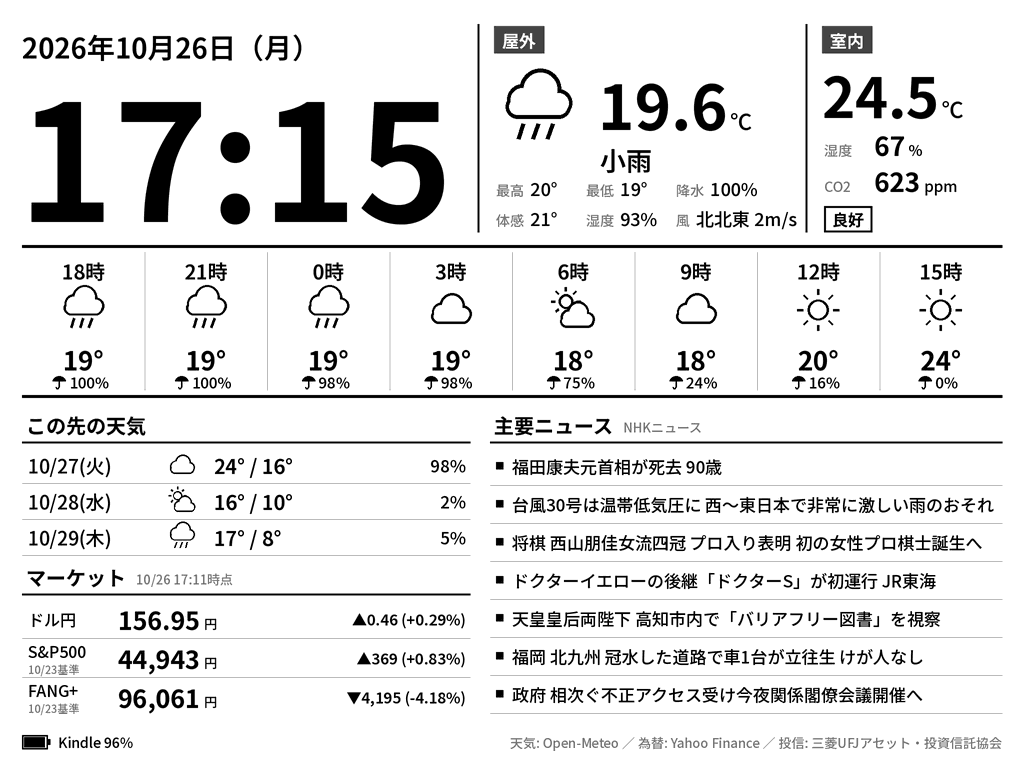
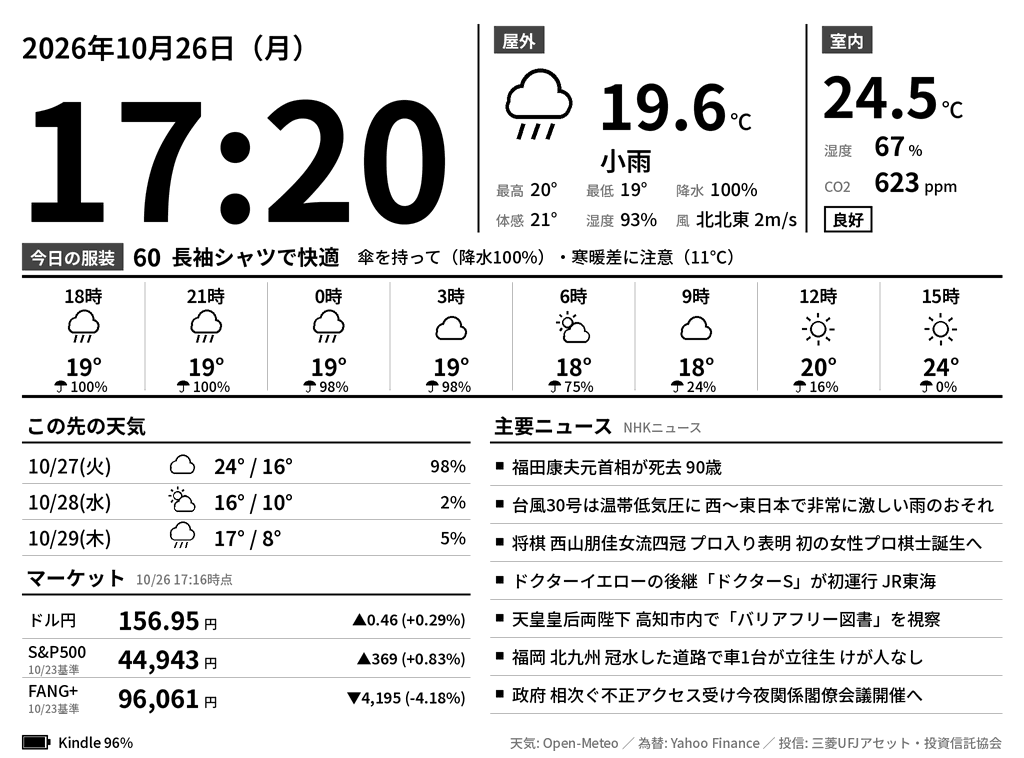
kindle_dashboard: add clothing advice (服装指数) bar
Computes a clothing index from Open-Meteo hourly apparent temperature for
the rest of today (tomorrow after 18:00) and adds umbrella, temperature
swing and strong wind tips.

Claude-Session: https://claude.ai/code/session_01U5J8BxMP2MPkhSzA51AjtL

Changed region(s): [[0.0, 0.1214, 0.9688, 0.5158]]

diff --git a/kindle_dashboard/server/dashboard/render.py b/kindle_dashboard/server/dashboard/render.py
@@ -121,10 +121,12 @@ class Canvas:
     def battery(self, x, y, w, h, level):
         icons.battery(self.d, x * self.s, y * self.s, w * self.s, h * self.s, level)
 
-    def label_box(self, x, y, txt):
+    def label_box(self, x, y, txt) -> float:
+        """白抜き文字の見出し。幅を返す。"""
         w = self.text_width(txt, 17, "Bold") + 16
         self.rect(x, y, x + w, y + 27, fill=DARK)
         self.text(x + w / 2, y + 14, txt, 17, "Bold", fill=WHITE, anchor="mm")
+        return w
 
     def finish(self) -> Image.Image:
         return self.img.resize((self.w, self.h), Image.LANCZOS)
@@ -202,8 +204,24 @@ def draw_indoor(c: Canvas, ind: Indoor | None):
         c.text(x + 2 + bw / 2, 219, level, 16, "Bold", anchor="mm")
 
 
+def draw_clothing(c: Canvas, w: Weather | None):
+    """時計・天気の下の帯: [今日の服装] 60 長袖シャツで快適　傘を持って（降水80%）・…"""
+    cl = w.clothing if w else None
+    if cl is None:
+        return
+    y, x1 = 256, c.w - M
+    x = M + c.label_box(M, y - 13, f"{cl.day_label}の服装") + 10
+    x += c.text(x, y, str(cl.index), 24, "Bold", anchor="lm") + 10
+    x += c.text(x, y, cl.phrase, 21, "Bold", anchor="lm") + 18
+    tips = list(cl.tips)
+    while tips and c.text_width("・".join(tips), 17, "Medium") > x1 - x:
+        tips.pop()  # 入りきらないひとことは後ろから省く
+    if tips:
+        c.text(x, y, "・".join(tips), 17, "Medium", anchor="lm")
+
+
 def draw_hourly(c: Canvas, w: Weather | None):
-    top, bottom = 246, 396
+    top, bottom = 276, 396
     c.line(M, top, c.w - M, top, 3)
     c.line(M, bottom, c.w - M, bottom, 3)
     slots = w.hourly if w else []
@@ -216,14 +234,14 @@ def draw_hourly(c: Canvas, w: Weather | None):
         if i >= len(slots):
             continue
         s, cx = slots[i], x0 + cw / 2
-        c.text(cx, 256, f"{s.time.hour}時", 20, "SemiBold", anchor="ma")
-        c.weather_icon(s.code, cx, 310, 52, s.is_day)
-        c.text(cx, 340, _deg(s.temperature), 26, "Bold", anchor="ma")
+        c.text(cx, 282, f"{s.time.hour}時", 18, "SemiBold", anchor="ma")
+        c.weather_icon(s.code, cx, 329, 40, s.is_day)
+        c.text(cx, 349, _deg(s.temperature), 23, "Bold", anchor="ma")
         if s.precip_prob is not None:
             label = f"{s.precip_prob}%"
-            tw = c.text_width(label, 15, "Medium")
-            c.umbrella(cx - tw / 2 - 4, 382, 13)
-            c.text(cx - tw / 2 + 6, 382, label, 15, "Medium", anchor="lm")
+            tw = c.text_width(label, 14, "Medium")
+            c.umbrella(cx - tw / 2 - 4, 386, 12)
+            c.text(cx - tw / 2 + 6, 386, label, 14, "Medium", anchor="lm")
 
 
 def draw_heading(c: Canvas, x0, x1, y, title, sub=""):
@@ -307,6 +325,7 @@ def render(data: DashboardData, fonts: Fonts, width: int = 1024, height: int = 7
     draw_outdoor(c, data.weather)
     c.line(806, 24, 806, 232, 2)
     draw_indoor(c, data.indoor)
+    draw_clothing(c, data.weather)
     draw_hourly(c, data.weather)
     draw_daily(c, data.weather)
     draw_market(c, data.quotes)

diff --git a/kindle_dashboard/server/dashboard/clothing.py b/kindle_dashboard/server/dashboard/clothing.py
@@ -1,0 +1,81 @@
+"""服装指数（tenki.jp の服装指数を参考にした独自の目安）。
+
+その日の外出時間帯（6〜21時。夕方以降は翌日）の体感温度から 10〜90 の指数と
+おすすめの服装を決め、傘・寒暖差・強風のひとことを添える。
+"""
+
+from __future__ import annotations
+
+from dataclasses import dataclass, field
+from datetime import datetime, timedelta
+
+DAY_START, DAY_END = 6, 21  # 外出する時間帯
+SWITCH_TO_TOMORROW = 18  # この時刻以降は明日の服装を出す
+
+# (この体感温度以上なら, 指数, 服装)
+LEVELS = [
+    (29, 90, "ノースリーブでもOK"),
+    (25, 80, "半袖で快適"),
+    (21, 70, "半袖＋薄い羽織りを"),
+    (17, 60, "長袖シャツで快適"),
+    (13, 50, "薄手のセーターを"),
+    (9, 40, "ジャケットが必要"),
+    (5, 30, "コートが必要"),
+    (0, 20, "厚手のコートを"),
+]
+COLDEST = (10, "ダウン・手袋で防寒")
+
+UMBRELLA_PROB = 50  # % 以上で傘
+TEMP_SWING = 10  # ℃ 以上で寒暖差に注意
+STRONG_WIND = 8  # m/s 以上で強風
+
+
+@dataclass
+class HourPoint:
+    time: datetime
+    temperature: float
+    apparent: float
+    precip_prob: int | None
+    wind_speed: float | None
+
+
+@dataclass
+class Clothing:
+    index: int
+    phrase: str
+    day_label: str  # "今日" / "明日"
+    tips: list[str] = field(default_factory=list)
+
+
+def level_for(feels_like: float) -> tuple[int, str]:
+    for threshold, index, phrase in LEVELS:
+        if feels_like >= threshold:
+            return index, phrase
+    return COLDEST
+
+
+def clothing_advice(points: list[HourPoint], now: datetime) -> Clothing | None:
+    if now.hour >= SWITCH_TO_TOMORROW:
+        day, label, start = (now + timedelta(days=1)).date(), "明日", DAY_START
+    else:
+        day, label, start = now.date(), "今日", max(DAY_START, now.hour)
+    window = [p for p in points if p.time.date() == day and start <= p.time.hour <= DAY_END]
+    if not window:
+        return None
+
+    apparent = [p.apparent for p in window]
+    # 最高と最低の体感温度の間（やや暖かい側）を、その日の体感とみなす
+    feels_like = 0.6 * max(apparent) + 0.4 * min(apparent)
+    index, phrase = level_for(feels_like)
+
+    tips = []
+    pops = [p.precip_prob for p in window if p.precip_prob is not None]
+    if pops and max(pops) >= UMBRELLA_PROB:
+        tips.append(f"傘を持って（降水{max(pops)}%）")
+    temps = [p.temperature for p in window]
+    if max(temps) - min(temps) >= TEMP_SWING:
+        tips.append(f"寒暖差に注意（{round(max(temps) - min(temps))}℃）")
+    winds = [p.wind_speed for p in window if p.wind_speed is not None]
+    if winds and max(winds) >= STRONG_WIND:
+        tips.append(f"風が強い（{round(max(winds))}m/s）")
+    return Clothing(index, phrase, label, tips)

diff --git a/kindle_dashboard/server/tests/test_clothing.py b/kindle_dashboard/server/tests/test_clothing.py
@@ -1,0 +1,57 @@
+from datetime import datetime, timedelta
+from zoneinfo import ZoneInfo
+
+import pytest
+
+from dashboard.clothing import HourPoint, clothing_advice, level_for
+
+TZ = ZoneInfo("Asia/Tokyo")
+
+
+def day_points(start: datetime, temps, apparent=None, pops=None, winds=None):
+    n = len(temps)
+    apparent = apparent or temps
+    pops = pops or [0] * n
+    winds = winds or [1.0] * n
+    return [HourPoint(start + timedelta(hours=i), temps[i], apparent[i], pops[i], winds[i]) for i in range(n)]
+
+
+@pytest.mark.parametrize("feels,index,phrase", [
+    (31, 90, "ノースリーブでもOK"), (25, 80, "半袖で快適"), (22, 70, "半袖＋薄い羽織りを"),
+    (19, 60, "長袖シャツで快適"), (14, 50, "薄手のセーターを"), (10, 40, "ジャケットが必要"),
+    (6, 30, "コートが必要"), (0, 20, "厚手のコートを"), (-3, 10, "ダウン・手袋で防寒"),
+])
+def test_level_for(feels, index, phrase):
+    assert level_for(feels) == (index, phrase)
+
+
+def test_uses_remaining_daytime_hours_today():
+    now = datetime(2026, 10, 26, 9, 30, tzinfo=TZ)
+    # 0時から 24 時間分: 早朝は寒いが 9 時以降は 18〜20℃
+    temps = [5] * 9 + [18, 19, 20, 20, 20, 20, 19, 19, 18, 18, 18, 18, 18, 10, 10]
+    c = clothing_advice(day_points(now.replace(hour=0, minute=0), temps), now)
+    assert c.day_label == "今日"
+    assert c.index == 60 and c.tips == []
+
+
+def test_switches_to_tomorrow_in_the_evening():
+    now = datetime(2026, 10, 26, 19, 0, tzinfo=TZ)
+    today = day_points(now.replace(hour=0, minute=0), [20] * 24)
+    tomorrow = day_points(now.replace(hour=0, minute=0) + timedelta(days=1), [6] * 24)
+    c = clothing_advice(today + tomorrow, now)
+    assert c.day_label == "明日"
+    assert (c.index, c.phrase) == (30, "コートが必要")
+
+
+def test_tips_for_rain_swing_and_wind():
+    now = datetime(2026, 10, 26, 6, 0, tzinfo=TZ)
+    temps = [8, 10, 12, 14, 16, 18, 19, 19, 18, 16, 14, 12, 11, 10, 9, 9]  # 6〜21時
+    pops = [0] * 10 + [70] + [0] * 5
+    winds = [3.0] * 15 + [9.4]
+    c = clothing_advice(day_points(now, temps, pops=pops, winds=winds), now)
+    assert c.tips == ["傘を持って（降水70%）", "寒暖差に注意（11℃）", "風が強い（9m/s）"]
+
+
+def test_no_data_for_the_day():
+    now = datetime(2026, 10, 26, 10, 0, tzinfo=TZ)
+    assert clothing_advice([], now) is None

diff --git a/kindle_dashboard/server/dashboard/sources.py b/kindle_dashboard/server/dashboard/sources.py
@@ -21,6 +21,8 @@ from dataclasses import dataclass
 from datetime import date, datetime
 from zoneinfo import ZoneInfo
 
+from .clothing import Clothing, HourPoint, clothing_advice
+
 USER_AGENT = "Mozilla/5.0 (X11; Linux x86_64) kindle-dashboard/1.0"
 
 
@@ -117,6 +119,7 @@ class Weather:
     precip_prob: int | None
     hourly: list[HourSlot]
     daily: list[DaySlot]
+    clothing: Clothing | None = None
 
 
 def open_meteo_url(latitude: float, longitude: float, timezone: str) -> str:
@@ -125,7 +128,8 @@ def open_meteo_url(latitude: float, longitude: float, timezone: str) -> str:
         "longitude": longitude,
         "current": "temperature_2m,relative_humidity_2m,apparent_temperature,"
                    "weather_code,wind_speed_10m,wind_direction_10m,is_day",
-        "hourly": "temperature_2m,weather_code,precipitation_probability,is_day",
+        "hourly": "temperature_2m,apparent_temperature,weather_code,precipitation_probability,"
+                  "wind_speed_10m,is_day",
         "daily": "weather_code,temperature_2m_max,temperature_2m_min,precipitation_probability_max",
         "timezone": timezone,
         "wind_speed_unit": "ms",
@@ -162,6 +166,12 @@ def parse_open_meteo(data: dict, now: datetime, hourly_count: int = 8,
         if t > now and t.hour % hourly_step == 0
     ][:hourly_count]
 
+    points = [
+        HourPoint(t, h["temperature_2m"][i], (h.get("apparent_temperature") or h["temperature_2m"])[i],
+                  pops[i], (h.get("wind_speed_10m") or [None] * len(hours))[i])
+        for i, t in enumerate(hours)
+    ]
+
     d = data["daily"]
     days = [date.fromisoformat(s) for s in d["time"]]
     today = now.date()
@@ -181,6 +191,7 @@ def parse_open_meteo(data: dict, now: datetime, hourly_count: int = 8,
         precip_prob=precip_prob,
         hourly=hourly,
         daily=daily,
+        clothing=clothing_advice(points, now),
     )
 
 

diff --git a/kindle_dashboard/server/tests/test_sources.py b/kindle_dashboard/server/tests/test_sources.py
@@ -19,6 +19,8 @@ def open_meteo_fixture():
         "hourly": {
             "time": hours,
             "temperature_2m": [float(i % 24) for i in range(len(hours))],
+            "apparent_temperature": [float(i % 24) + 1 for i in range(len(hours))],
+            "wind_speed_10m": [2.0] * len(hours),
             "weather_code": [3] * len(hours),
             "precipitation_probability": [i % 101 for i in range(len(hours))],
             "is_day": [1 if 6 <= i % 24 < 18 else 0 for i in range(len(hours))],
@@ -45,6 +47,8 @@ def test_parse_open_meteo_picks_next_three_hour_slots():
     assert [d.date for d in w.daily] == [date(2026, 10, 27), date(2026, 10, 28), date(2026, 10, 29)]
     assert w.daily[0].precip_prob == 98
     assert w.current.code == 61
+    # 14〜21時の体感 15〜22℃ → 0.6*22 + 0.4*15 = 19.2 → 指数 60
+    assert (w.clothing.day_label, w.clothing.index) == ("今日", 60)
 
 
 def test_parse_open_meteo_skips_current_slot_exactly_on_the_hour():

diff --git a/kindle_dashboard/server/dashboard/demo.py b/kindle_dashboard/server/dashboard/demo.py
@@ -4,6 +4,7 @@ from __future__ import annotations
 
 from datetime import datetime, timedelta
 
+from .clothing import Clothing
 from .render import DashboardData
 from .sources import Current, DaySlot, HourSlot, Indoor, Quote, Weather
 
@@ -27,6 +28,7 @@ def demo_data(now: datetime) -> DashboardData:
         current=Current(temperature=19.6, apparent=21.0, humidity=93, code=61,
                         wind_speed=2.1, wind_direction=22, is_day=True),
         today_max=20, today_min=19, precip_prob=100, hourly=hourly, daily=daily,
+        clothing=Clothing(60, "長袖シャツで快適", "今日", ["傘を持って（降水100%）", "寒暖差に注意（11℃）"]),
     )
     market_time = now.replace(second=0, microsecond=0) - timedelta(minutes=4)
     fund_date = (now - timedelta(days=3)).date()

diff --git a/kindle_dashboard/README.md b/kindle_dashboard/README.md
@@ -104,6 +104,28 @@ python serve.py                  # 配信開始 → 表示された http://<IP>:
 - 投資信託ではなく NYSE FANG+ 指数そのものを出したい場合は `{"label": "FANG+", "source": "yahoo", "symbol": "^NYFANG", "unit": "pt", "decimals": 0}` に替える。
 - `refresh_minutes` を銘柄ごとに指定できる（投資信託は 60 分）。
 
+### 服装指数（「今日の服装」の帯）
+
+tenki.jp の服装指数を参考にした**独自の目安**（tenki.jp の値そのものではない）。Open-Meteo の 1 時間ごとの予報から計算する。
+
+- 対象時間: 今日の「今〜21時」（6時より前なら 6時から）。**18時以降は明日の 6〜21時**で「明日の服装」を出す。
+- 体感温度 = 0.6 × 最高体感 + 0.4 × 最低体感 で、次の表から指数と服装を決める。
+
+| 体感温度 | 指数 | 表示 |
+|---|---|---|
+| 29℃〜 | 90 | ノースリーブでもOK |
+| 25〜29℃ | 80 | 半袖で快適 |
+| 21〜25℃ | 70 | 半袖＋薄い羽織りを |
+| 17〜21℃ | 60 | 長袖シャツで快適 |
+| 13〜17℃ | 50 | 薄手のセーターを |
+| 9〜13℃ | 40 | ジャケットが必要 |
+| 5〜9℃ | 30 | コートが必要 |
+| 0〜5℃ | 20 | 厚手のコートを |
+| 〜0℃ | 10 | ダウン・手袋で防寒 |
+
+- ひとこと（入りきらない分は後ろから省略）: 降水確率 50% 以上「傘を持って」、気温差 10℃ 以上「寒暖差に注意」、風速 8m/s 以上「風が強い」。
+- しきい値や文言は `server/dashboard/clothing.py` の先頭で変えられる（寒がりなら各しきい値を 2〜3℃ 上げる、など）。
+
 ### 室内センサー（任意: SwitchBot）
 
 1. SwitchBot アプリ → プロフィール → 設定 → 「アプリバージョン」を 10 回タップ → 開発者向けオプションでトークンとシークレットを取得。
